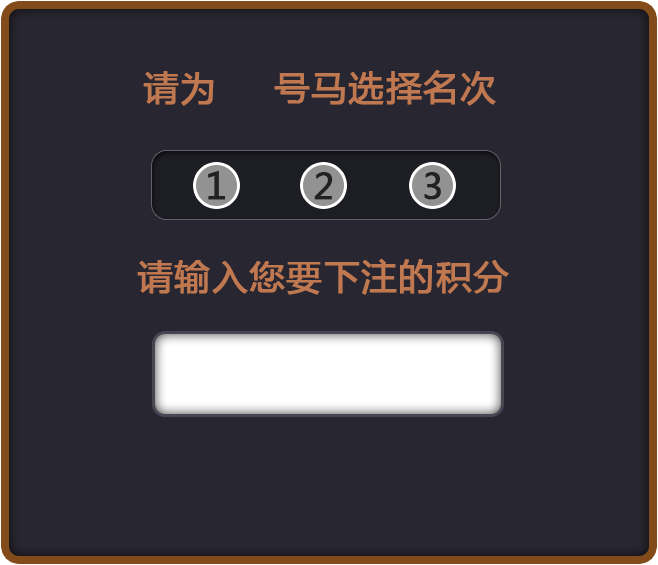
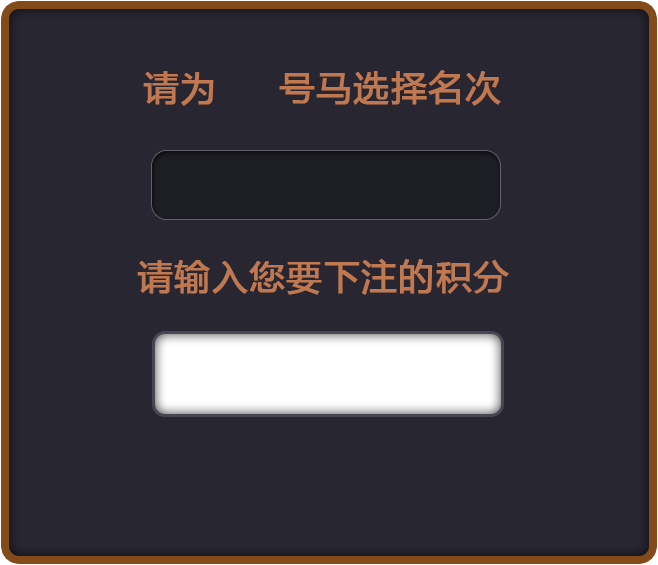
update

diff --git a/source/assets/js/horserace.js b/source/assets/js/horserace.js
@@ -103,11 +103,14 @@ BasicGame.Preloader.prototype = {
 
         this.load.image('menu-bg','assets/horserace/bg.jpg');
         this.load.image('start','assets/horserace/start.png');
+        this.load.image('back','assets/horserace/back.png');
         this.load.image('confirm','assets/horserace/confirm.png');
         this.load.image('popup','assets/horserace/popup.png');
         this.load.spritesheet('rank', 'assets/horserace/rank.png', 47, 47);
         this.load.image('add','assets/horserace/add.png');
         this.load.image('sub','assets/horserace/sub.png');
+        this.load.image('gameover','assets/horserace/gameover.png');
+        this.load.image('light','assets/horserace/light.png');
 
         for (i = 0; i < horseNum; i++) {
             hid = i + 1;
@@ -132,8 +135,8 @@ BasicGame.Preloader.prototype = {
 };
 
 myChips = {};
-myChips.rank = [4,5,6];
-myChips.rankPoints = [200,400,300];
+myChips.rank = [0, 0, 0];
+myChips.rankPoints = [0, 0, 0];
 
 BasicGame.MainMenu = function (game) {
 
@@ -143,12 +146,27 @@ BasicGame.MainMenu = function (game) {
     this.popup;
     this.ready = false;
     this.rankButton = [];
+    this.selectedRank = null;
+    this.oldSelectedRank = null;
+    this.rankSprite = [];
+    this.isPopup = false;
 };
 
 BasicGame.MainMenu.prototype = {
 
-    create: function () {
+    init: function () {
+        this.selectedHorse = null;
+        this.betPoints = null;
+        this.ready = false;
+        this.rankButton = [];
+        this.selectedRank = null;
+        this.oldSelectedRank = null;
+        this.rankSprite = [];
+        this.isPopup = false;
+    },
 
+    create: function () {
+        game.world.setBounds(0, 0, 720, 1080);
         this.add.sprite(0, 0, 'menu-bg');
         var horseX = 118;
         var horseY = 210;
@@ -157,9 +175,9 @@ BasicGame.MainMenu.prototype = {
             h.inputEnabled = true;
             h.events.onInputDown.add(this.bet, this);
             if (i % 2 == 0) {
-                horseX += 300;
+                horseX += 310;
             } else {
-                horseX -= 300;
+                horseX -= 310;
                 horseY += 200;
             }
         }
@@ -172,7 +190,7 @@ BasicGame.MainMenu.prototype = {
             this.rankButton[i] = this.popup.create(rankButtonX, 420, 'rank', 3 + i);
             this.rankButton[i].inputEnabled = true;
             this.rankButton[i].events.onInputDown.add(this.toggleRank, this);
-            this.rankButton[i].horseSelected = false;
+            this.rankButton[i].rankId = i;
             rankButtonX += 108;
         }
         this.add.button(game.world.centerX, 750, 'confirm', this.closePopup, this, null, null, null, null, this.popup).anchor.setTo(0.5);
@@ -191,8 +209,22 @@ BasicGame.MainMenu.prototype = {
     },
 
     bet: function (sprite) {
+        if (this.isPopup) {
+            return;
+        }
+        this.selectedRank = null;
+        this.isPopup = true;
         var horseId = sprite.frame + 1;
         this.selectedHorse.setText(horseId);
+        this.betPoints.setText(chip);
+        for (i = 0; i < 3; i++) {
+            if (myChips.rank[i] == horseId) {
+                this.rankButton[i].loadTexture('rank', i);
+                this.selectedRank = this.oldSelectedRank = i + 1;
+                break;
+            }
+        }
+        game.world.bringToTop(this.popup);
         this.popup.visible = true;
     },
 
@@ -200,29 +232,47 @@ BasicGame.MainMenu.prototype = {
         this.popup.visible = false;
         var myBet = +this.betPoints.text;
         var horseId = +this.selectedHorse.text;
-        if (this.selectedRank && myBet) {
-            myChips.rank[this.selectedRank] = horseId;
-            myChips.rankPoints[this.selectedRank] = myBet;
+        if (this.oldSelectedRank && (this.oldSelectedRank != this.selectedRank || !myBet)) {
+            myChips.rank[this.oldSelectedRank - 1] = 0;
+            this.rankSprite[this.oldSelectedRank - 1].visible = false;
         }
+        if (this.selectedRank) {
+            this.rankButton[this.selectedRank - 1].loadTexture('rank', this.selectedRank + 2);
+            if (myBet) {
+                this.selectedRank--;
+                myChips.rank[this.selectedRank] = horseId;
+                myChips.rankPoints[this.selectedRank] = myBet;
+                var tempX = 110 + (horseId - 1) % 2 * 310;
+                var tempY = 338 + parseInt((horseId - 1) / 2) * 200;
+                if (!this.rankSprite[this.selectedRank]) {
+                    this.rankSprite[this.selectedRank] = this.add.group();
+                    this.rankSprite[this.selectedRank].create(0, 0, 'rank', this.selectedRank);
+                    this.add.text(80, 0, myBet, { font: "40px Arial", fill: "#00CC00" }, this.rankSprite[this.selectedRank]);
+                    this.rankSprite[this.selectedRank].x = tempX;
+                    this.rankSprite[this.selectedRank].y = tempY;
+                } else {
+                    this.rankSprite[this.selectedRank].x = tempX;
+                    this.rankSprite[this.selectedRank].y = tempY;
+                    this.rankSprite[this.selectedRank].getAt(1).setText(myBet);
+                    this.rankSprite[this.selectedRank].visible = true;
+                }
+            }
+        }
+        this.isPopup = false;
     },
 
     toggleRank: function (sprite) {
         var horseId = +this.selectedHorse.text;
-        var rankId = sprite.frame;
-        if (sprite.horseSelected) {
-            sprite.loadTexture('rank', sprite.frame + 3);
-
-            if (myChips.rank[rankId] == horseId) {
-                myChips.rank[rankId] = 0;
-            }
+        var rankId = sprite.rankId;
+        if (this.selectedRank && this.selectedRank == rankId + 1) {
+            sprite.loadTexture('rank', rankId + 3);
+            this.selectedRank = null;
         } else {
-            sprite.loadTexture('rank', sprite.frame - 3);
-
-            if (myChips.rank[rankId] > 0 && myChips.rank[rankId] != horseId) {
+            if (myChips.rank[rankId] && myChips.rank[rankId] != horseId) {
                 var _self = this;
                 sweetAlert({
-                    title: "确定要重新下注第" + (+rankId + 1) + "名吗?",
-                    text: "确定将会取消前次下注" + myChips.rank[rankId] + "为第" + (+rankId + 1) + "名!",
+                    title: "确定要重新下注第" + (rankId + 1) + "名吗?",
+                    text: "确定将会取消前次下注" + myChips.rank[rankId] + "号马为第" + (rankId + 1) + "名!",
                     type: "warning",
                     showCancelButton: true,
                     cancelButtonText: "取消",
@@ -230,22 +280,23 @@ BasicGame.MainMenu.prototype = {
                     confirmButtonText: "确定",
                     closeOnConfirm: true
                 }, function() {
-                    console.log(_self.selectedHorse.text);
+                    myChips.rank[rankId] = 0;
+                    _self.rankSprite[sprite.rankId].visible = false;
+                    _self.selectRank(sprite);
                 });
+            } else {
+                this.selectRank(sprite);
             }
         }
     },
 
     selectRank: function (sprite) {
-        var index = sprite.frame - 3;
-        for (i = 0; i < 3; i ++) {
-            if (index != i && this.rankButton[i].horseSelected) {
-                this.rankButton[i].loadTexture('rank', this.rankButton[i].frame + 3);
-                myChips.rank[this.rankButton[i].horseSelected + 1] = 0;
-                break;
-            }
+        if (this.selectedRank) {
+            this.rankButton[this.selectedRank - 1].loadTexture('rank', this.selectedRank + 2);
         }
-    }
+        sprite.loadTexture('rank', sprite.rankId);
+        this.selectedRank = sprite.rankId + 1;
+    },
 
     addPoints: function (i, j) {
         if (userPoints < chip) {
@@ -269,6 +320,9 @@ BasicGame.MainMenu.prototype = {
     },
 
     startGame: function () {
+        if (this.isPopup) {
+            return;
+        }
 
         //  Ok, the Play Button has been clicked or touched, so let's stop the music (otherwise it'll carry on playing)
         // this.music.stop();
@@ -352,7 +406,6 @@ BasicGame.Game.prototype = {
         for (i = 0; i < horseNum; i++) {
             // this.balls[id] = game.add.sprite(10, by, 'balls', id);
             this.players[i] = game.add.sprite(this.startX, y + 107 * (this.ranklist[i] - 1), 'horse' + this.ranklist[i], 0);
-            this.players[i].horseId = this.ranklist[i];
             // by += 20;
         }
         this.runStart();
@@ -360,7 +413,7 @@ BasicGame.Game.prototype = {
 
     runStart: function () {
         var duration = this.rndDuration(7000, 12000);
-        // var duration = this.rndDuration(1000, 2000);
+        var duration = this.rndDuration(1000, 2000);//TODO
 
         cameraMoveTime = duration[0];
 
@@ -377,10 +430,19 @@ BasicGame.Game.prototype = {
                 // btemptween.to({ x: 10 + bSectionDistance * (tweenI + 1) }, section[tweenI], Phaser.Easing.Linear.None);
                 ptemptween.to({ x: this.startX + pSectionDistance * (tweenI + 1) }, section[tweenI], Phaser.Easing.Linear.None);
             }
-            ptemptween.to({ x: game.world.width }, 2000, Phaser.Easing.Linear.None);
             // btween[i] = btemptween;
-            ptween[i] = ptemptween;
+            if (i == 7) {
+                ptemptween.chain(game.add.tween(this.players[i]).to({ x: game.world.width }, 2000, Phaser.Easing.Linear.None));
+                ptemptween.onComplete.add(function() {
+                    game.time.events.add(1000, this.gameover, this);
+                }, this);
+                ptween[i] = ptemptween;
+            } else {
+                ptemptween.to({ x: game.world.width }, 2000, Phaser.Easing.Linear.None);
+                ptween[i] = ptemptween;
+            }
         }
+
         for (i = 0; i < horseNum; i++) {
             this.players[i].animations.add('run');
             this.players[i].animations.play('run', 12, true);
@@ -394,10 +456,36 @@ BasicGame.Game.prototype = {
     runStop: function () {
         for (i = 0; i < horseNum; i++) {
             if (!this.players[i].stopRun && this.players[i].x == this.startX + this.runLength) {
-                this.players[i].loadTexture('stand', this.players[i].horseId - 1);
+                this.players[i].loadTexture('stand', this.ranklist[i] - 1);
                 this.players[i].stopRun = true;
             }
         }
+    },
+
+    gameover: function () {
+        var graphics = game.add.graphics(0, 0);
+        graphics.alpha = 0.7;
+        graphics.beginFill(0x000000);
+        graphics.drawRect(this.runwayLength - 720, 0, 720, 1080);
+        game.world.bringToTop(graphics);
+        graphics.endFill();
+
+        var endgroup = this.add.group();
+        endgroup.create(this.runwayLength - 350, game.world.centerY, 'gameover').anchor.setTo(0.5);
+        if (this.ranklist[1] == myChips.rank[1]) {
+            endgroup.create(this.runwayLength - 660, game.world.centerY - 250, 'light');
+        }
+        if (this.ranklist[0] == myChips.rank[0]) {
+            endgroup.create(this.runwayLength - 480, game.world.centerY - 320, 'light');
+        }
+        if (this.ranklist[2] == myChips.rank[2]) {
+            endgroup.create(this.runwayLength - 320, game.world.centerY - 230, 'light');
+        }
+        endgroup.create(this.runwayLength - 600, game.world.centerY - 150, 'stand', this.ranklist[1] - 1);
+        endgroup.create(this.runwayLength - 420, game.world.centerY - 220, 'stand', this.ranklist[0] - 1);
+        endgroup.create(this.runwayLength - 260, game.world.centerY - 130, 'stand', this.ranklist[2] - 1);
+
+        this.add.button(this.runwayLength - 490, game.world.centerY + 200, 'back', function(){this.state.start('MainMenu', true, false);}, this);
     },
 
     update: function () {
